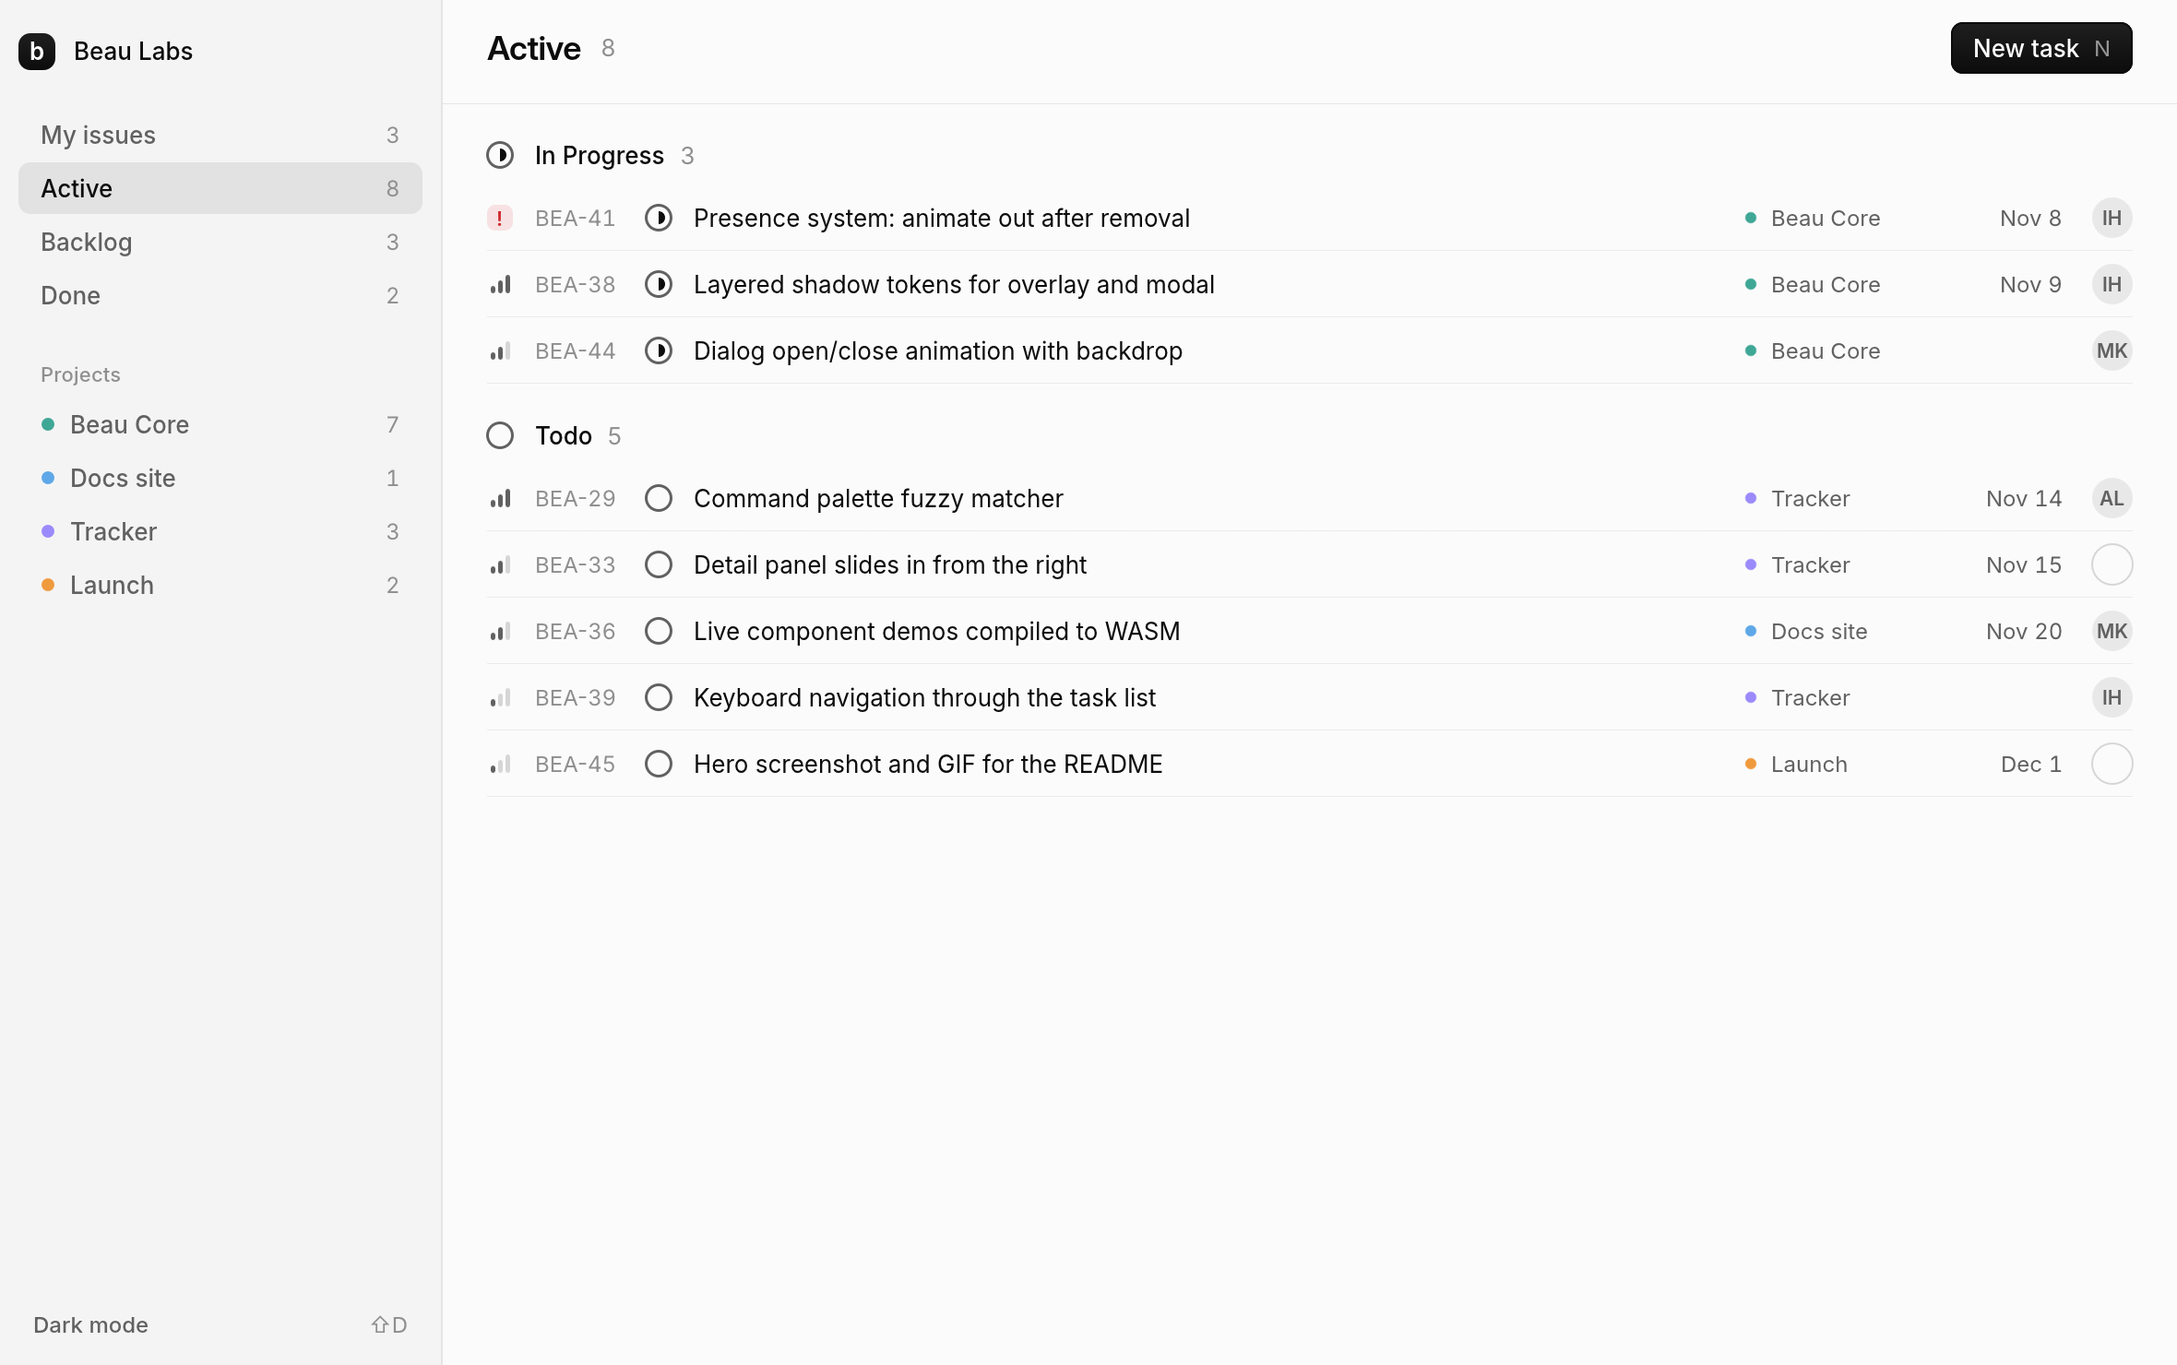
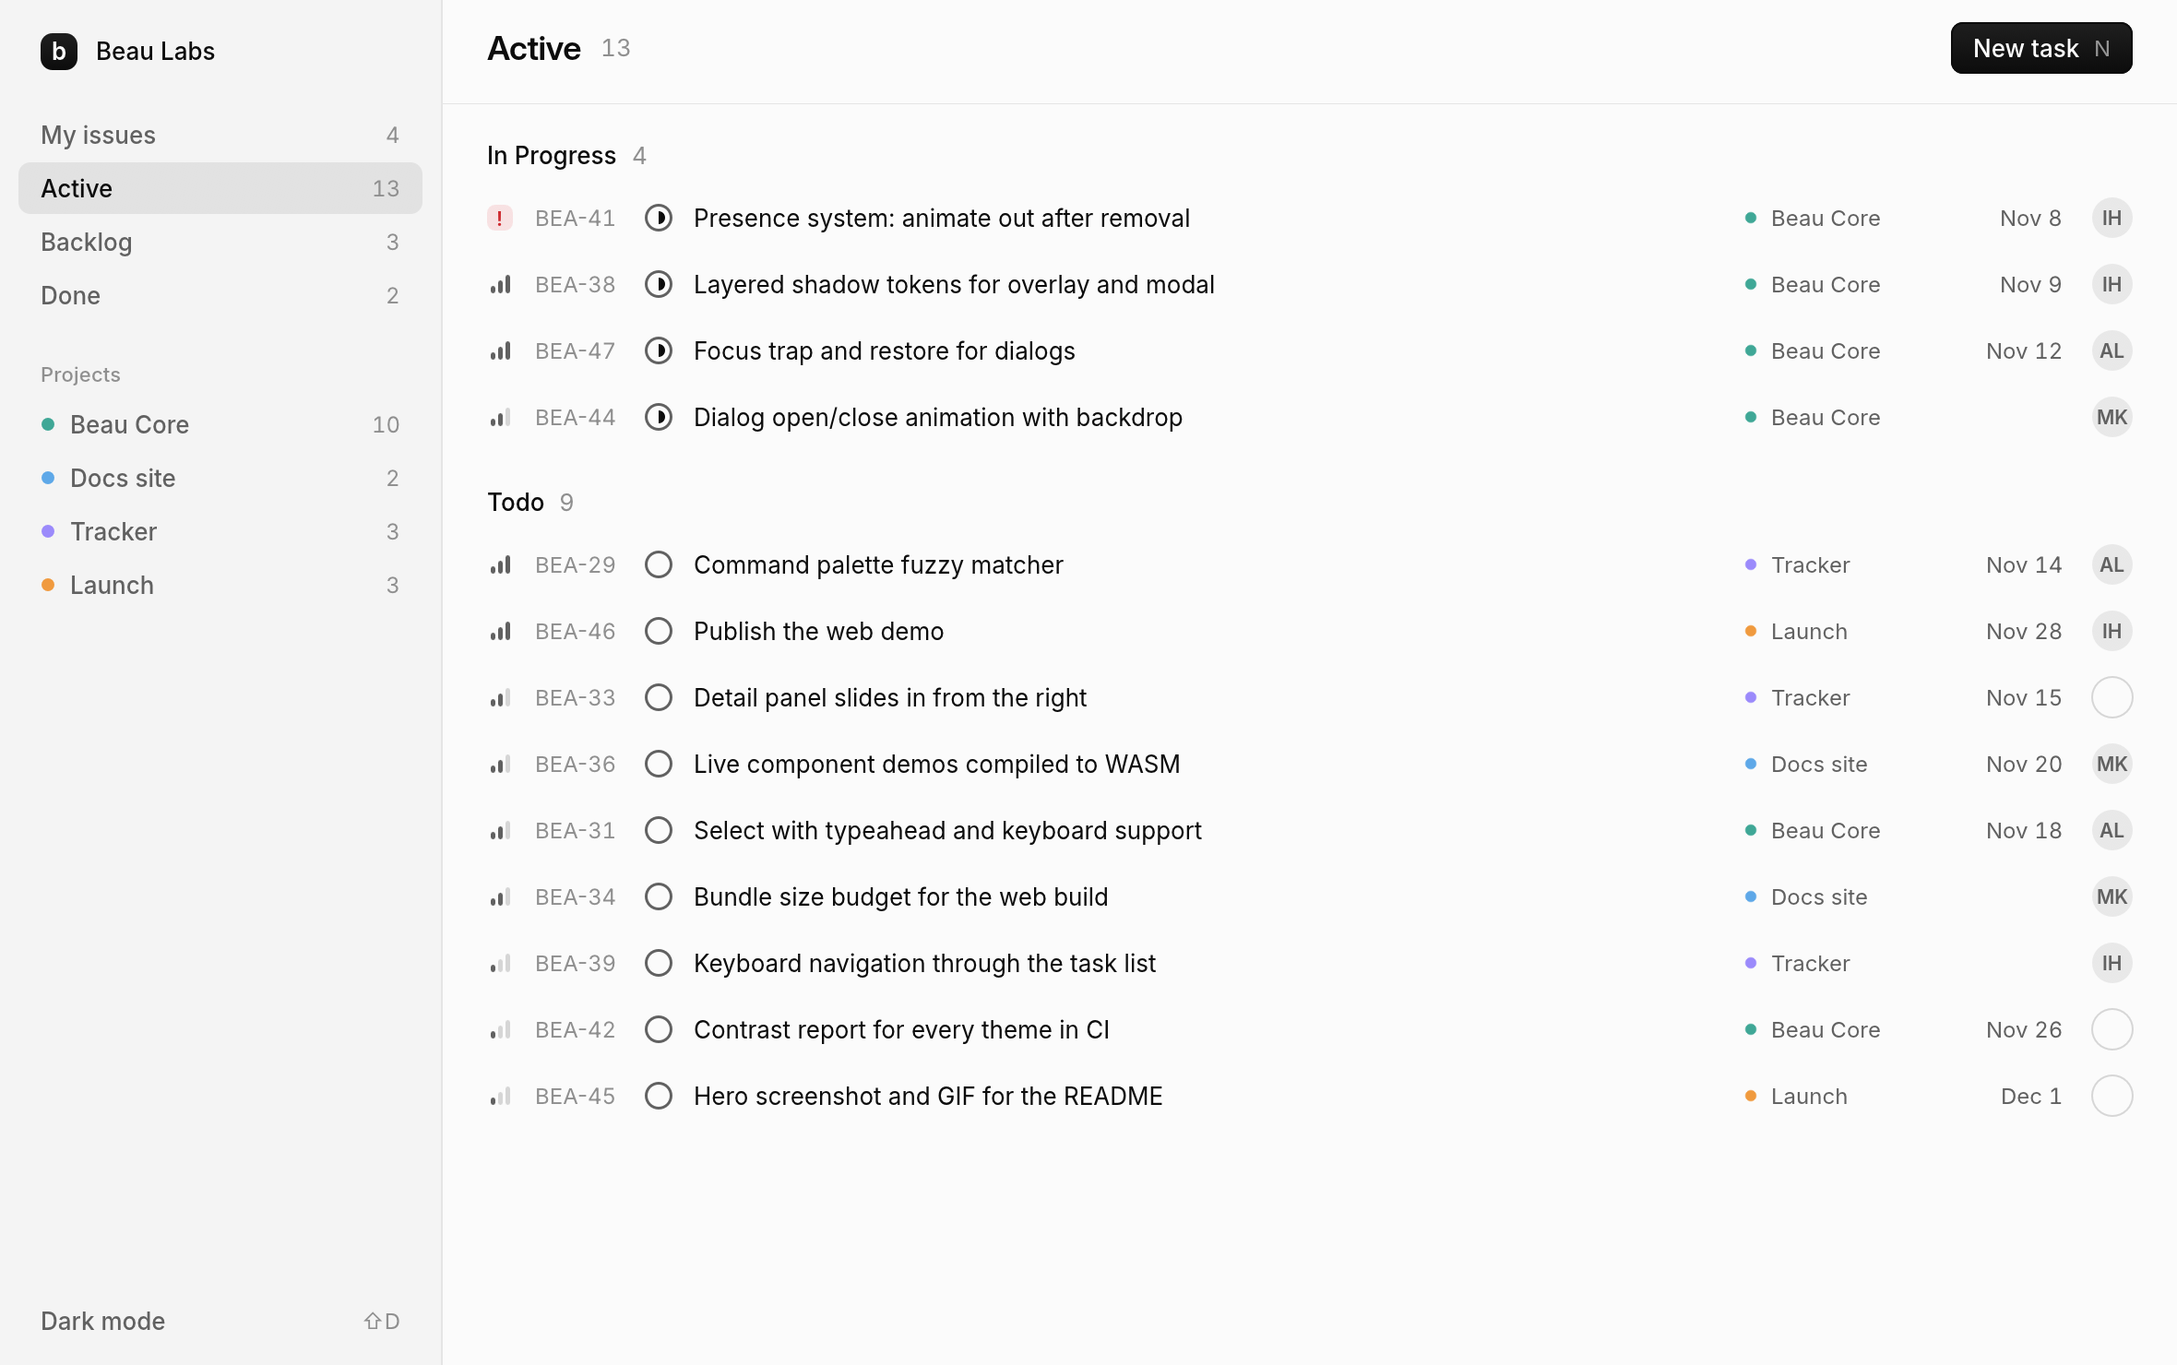
fix(design): screenshot polish pass
- Light backdrop 28% -> 14% ink, so dialogs lift off the page.
- Text inputs: a soft 3px 16% halo flush with the border (new
  paint::focus_halo) instead of a gapped 35% ring.
- Stock radios and rails rest on the faint hover wash, not the active one.
- Tracker: fuller seed data, no row dividers, plain group headers,
  one left edge down the sidebar, zero counts hidden.

Closes #58

diff --git a/examples/tracker/src/app.rs b/examples/tracker/src/app.rs
@@ -1,7 +1,7 @@
 use eframe::egui::{self, Align, Key, Layout, Margin, Modifiers, Sense, Ui, vec2};
 
 use beau::tokens::TextRole;
-use beau::{Button, Card, Dialog, Size, TextInput};
+use beau::{Button, Card, Dialog, TextInput};
 
 use crate::Options;
 use crate::data::{self, Filter, Project, Status, Task};
@@ -91,6 +91,9 @@ impl TrackerApp {
         ui.spacing_mut().item_spacing.y = 1.0;
 
         ui.horizontal(|ui| {
+            // Ghost rows pad their labels by `space.lg`; the logo shares that
+            // left edge, so the whole sidebar reads down one axis.
+            ui.add_space(t.space.lg);
             glyphs::logo(ui);
             ui.add_space(2.0);
             ui.label(t.text("Beau Labs", TextRole::BodyStrong));
@@ -99,11 +102,13 @@ impl TrackerApp {
 
         for f in Filter::ALL {
             let count = self.tasks.iter().filter(|task| f.matches(task)).count();
-            let b = Button::new(f.label())
+            let mut b = Button::new(f.label())
                 .ghost()
                 .full_width()
-                .selected(self.filter == f)
-                .trailing(count.to_string());
+                .selected(self.filter == f);
+            if count > 0 {
+                b = b.trailing(count.to_string());
+            }
             if ui.add(b).clicked() {
                 self.filter = f;
             }
@@ -113,26 +118,18 @@ impl TrackerApp {
         section_label(ui, "Projects");
         for (i, p) in self.projects.iter().enumerate() {
             let count = self.tasks.iter().filter(|task| task.project == i).count();
-            ui.add(
-                Button::new(p.name)
-                    .ghost()
-                    .full_width()
-                    .dot(p.color)
-                    .trailing(count.to_string()),
-            );
+            let mut b = Button::new(p.name).ghost().full_width().dot(p.color);
+            if count > 0 {
+                b = b.trailing(count.to_string());
+            }
+            ui.add(b);
         }
 
         ui.with_layout(Layout::bottom_up(Align::Min), |ui| {
             let dark = Self::is_dark(ui.ctx());
             let label = if dark { "Light mode" } else { "Dark mode" };
             if ui
-                .add(
-                    Button::new(label)
-                        .ghost()
-                        .size(Size::Sm)
-                        .full_width()
-                        .trailing("⇧D"),
-                )
+                .add(Button::new(label).ghost().full_width().trailing("⇧D"))
                 .clicked()
             {
                 self.set_dark(ui.ctx(), !dark);
@@ -314,9 +311,9 @@ fn group_header(ui: &mut Ui, status: Status, count: usize) {
     let (rect, _) = ui.allocate_exact_size(vec2(ui.available_width(), 44.0), Sense::hover());
     let p = ui.painter();
     let cy = rect.bottom() - 16.0;
-    let mut x = rect.left() + 24.0;
-    glyphs::status(p, egui::pos2(x + 7.0, cy), status, &t);
-    x += 26.0;
+    // No status glyph: each row already shows one, and a second copy in
+    // another column read as misaligned.
+    let x = rect.left() + 24.0;
     let label = p.layout_no_wrap(status.label().into(), t.font(TextRole::BodyStrong), c.text);
     let w = label.size().x;
     p.galley(egui::pos2(x, cy - label.size().y / 2.0), label, c.text);
@@ -345,13 +342,6 @@ fn task_row(ui: &mut Ui, task: &Task, project: &Project) {
     if hover > 0.0 {
         p.rect_filled(rect, 0.0, c.surface_hover.gamma_multiply(hover));
     }
-    let divider = t.divider(ui.ctx());
-    p.hline(
-        (rect.left() + 24.0)..=(rect.right() - 24.0),
-        rect.bottom() - divider.width / 2.0,
-        (divider.width, c.border.gamma_multiply(0.7)),
-    );
-
     let cy = rect.center().y;
     let small = t.font(TextRole::Small);
     let mut x = rect.left() + 24.0;

diff --git a/crates/beau/src/stock.rs b/crates/beau/src/stock.rs
@@ -10,7 +10,7 @@
 //!   contact shadow, hover and press washes, 500-weight labels, a soft focus
 //!   halo for keyboard focus, and ghost rows inside menus and popups.
 //! - **Text edits**: a raised field whose border darkens on hover and turns
-//!   `focus_ring` with a 35% halo when focused, like [`crate::TextInput`].
+//!   `focus_ring` with a soft halo when focused, like [`crate::TextInput`].
 //! - **Checkboxes**: a 14pt box at `radius.sm` with an ink check.
 //! - **Separators**: physical-pixel hairlines.
 //!
@@ -31,6 +31,7 @@ use egui::{
     },
 };
 
+use crate::paint;
 use crate::tokens::{Level, Mode, ShadowLayer, Theme};
 
 /// The [`StyleProvider`] that gives stock egui widgets beau's look.
@@ -90,13 +91,25 @@ fn shadow(layer: Option<&ShadowLayer>) -> Shadow {
     })
 }
 
-/// beau's focus treatment for frames: a solid 3pt halo at 35% of `focus_ring`.
+/// Keyboard focus on buttons and checkboxes: a solid 3pt halo at 35% of
+/// `focus_ring`. It is the only focus signal on those controls, so it stays
+/// stronger than the text-field halo.
 fn halo(t: &Theme) -> Shadow {
+    halo_at(t, 0.35)
+}
+
+/// A focused text edit: the same soft halo as [`paint::focus_halo`], drawn as
+/// a solid shadow. The border turning `focus_ring` is the main signal.
+fn field_halo(t: &Theme) -> Shadow {
+    halo_at(t, paint::FOCUS_HALO_ALPHA)
+}
+
+fn halo_at(t: &Theme, alpha: f32) -> Shadow {
     Shadow {
         offset: [0, 0],
         blur: 0,
-        spread: 3,
-        color: t.colors.focus_ring.gamma_multiply(0.35),
+        spread: paint::FOCUS_HALO_WIDTH as u8,
+        color: t.colors.focus_ring.gamma_multiply(alpha),
     }
 }
 
@@ -234,7 +247,11 @@ impl StyleProvider<TextEditStyle> for StockStyle {
             .stroke(Stroke::new(1.0, border))
             .corner_radius(CornerRadius::same(t.radius.md))
             .inner_margin(margin(t.space.lg - 2.0, t.space.xs))
-            .shadow(if focused { halo(&t) } else { Shadow::NONE });
+            .shadow(if focused {
+                field_halo(&t)
+            } else {
+                Shadow::NONE
+            });
         TextEditStyle {
             atom_layout: AtomLayoutStyle {
                 frame: frame.apply_stroke_and_expansion_without_layout_shift(frame.stroke, 0.0),

diff --git a/examples/tracker/src/data.rs b/examples/tracker/src/data.rs
@@ -156,6 +156,15 @@ pub fn seed_tasks() -> Vec<Task> {
             Some("IH"),
         ),
         t(
+            47,
+            "Focus trap and restore for dialogs",
+            S::InProgress,
+            P::High,
+            0,
+            Some("Nov 12"),
+            Some("AL"),
+        ),
+        t(
             44,
             "Dialog open/close animation with backdrop",
             S::InProgress,
@@ -172,6 +181,15 @@ pub fn seed_tasks() -> Vec<Task> {
             2,
             Some("Nov 14"),
             Some("AL"),
+        ),
+        t(
+            46,
+            "Publish the web demo",
+            S::Todo,
+            P::High,
+            3,
+            Some("Nov 28"),
+            Some("IH"),
         ),
         t(
             33,
@@ -192,6 +210,24 @@ pub fn seed_tasks() -> Vec<Task> {
             Some("MK"),
         ),
         t(
+            31,
+            "Select with typeahead and keyboard support",
+            S::Todo,
+            P::Medium,
+            0,
+            Some("Nov 18"),
+            Some("AL"),
+        ),
+        t(
+            34,
+            "Bundle size budget for the web build",
+            S::Todo,
+            P::Medium,
+            1,
+            None,
+            Some("MK"),
+        ),
+        t(
             39,
             "Keyboard navigation through the task list",
             S::Todo,
@@ -199,6 +235,15 @@ pub fn seed_tasks() -> Vec<Task> {
             2,
             None,
             Some("IH"),
+        ),
+        t(
+            42,
+            "Contrast report for every theme in CI",
+            S::Todo,
+            P::Low,
+            0,
+            Some("Nov 26"),
+            None,
         ),
         t(
             45,

diff --git a/crates/beau/src/paint/focus.rs b/crates/beau/src/paint/focus.rs
@@ -4,6 +4,10 @@ use egui::{Color32, CornerRadius, Rect, Shape, Stroke, StrokeKind, epaint::RectS
 pub const FOCUS_GAP: f32 = 1.0;
 /// Width of the focus ring, in points.
 pub const FOCUS_WIDTH: f32 = 2.0;
+/// Width of the soft halo around a focused text field, in points.
+pub const FOCUS_HALO_WIDTH: f32 = 3.0;
+/// Opacity of the halo, as a fraction of `focus_ring`.
+pub const FOCUS_HALO_ALPHA: f32 = 0.16;
 
 /// A focus ring around `rect`: a [`FOCUS_GAP`] gap, then a [`FOCUS_WIDTH`] ring.
 ///
@@ -24,4 +28,19 @@ pub fn focus_ring(rect: Rect, radius: CornerRadius, color: Color32, t: f32) -> S
     };
     let stroke = Stroke::new(FOCUS_WIDTH, color.gamma_multiply(t.clamp(0.0, 1.0)));
     Shape::Rect(RectShape::stroke(r, cr, stroke, StrokeKind::Outside))
+}
+
+/// The soft halo around a focused text field: a [`FOCUS_HALO_WIDTH`] band
+/// flush against `rect`, at [`FOCUS_HALO_ALPHA`] of `color`.
+///
+/// Unlike [`focus_ring`] there is no gap, so the field's own border and the
+/// halo read as one soft edge rather than a double outline. `t` in `0..=1`
+/// fades it in; returns [`Shape::Noop`] when `t` is zero.
+pub fn focus_halo(rect: Rect, radius: CornerRadius, color: Color32, t: f32) -> Shape {
+    if t <= 0.0 {
+        return Shape::Noop;
+    }
+    let alpha = FOCUS_HALO_ALPHA * t.clamp(0.0, 1.0);
+    let stroke = Stroke::new(FOCUS_HALO_WIDTH, color.gamma_multiply(alpha));
+    Shape::Rect(RectShape::stroke(rect, radius, stroke, StrokeKind::Outside))
 }

diff --git a/crates/beau/src/tokens/mod.rs b/crates/beau/src/tokens/mod.rs
@@ -168,12 +168,14 @@ impl Theme {
         let w = &mut v.widgets;
         // Most stock widgets are drawn by `crate::stock::StockStyle`; these
         // slots style the rest. `bg_fill` is the inside of radios and slider
-        // handles and, when inactive, the slider rail: a soft gray, so the
-        // rail shows on raised surfaces, turning white under the pointer.
+        // handles and, when inactive, the slider rail: the faint hover wash,
+        // so rails show on raised surfaces while resting radios read as
+        // outlined controls rather than disabled discs. White under the
+        // pointer.
         // `weak_bg_fill` frames buttons when no StockStyle is registered.
         // `fg_stroke` is radio labels and dots and slider handle outlines.
         for (wv, fill, weak, fg) in [
-            (&mut w.inactive, press, c.surface_raised, c.text),
+            (&mut w.inactive, hover, c.surface_raised, c.text),
             (&mut w.hovered, c.surface_raised, hover, c.text),
             (&mut w.active, c.surface_raised, press, c.text),
             (&mut w.open, c.surface_raised, press, c.text),

diff --git a/crates/beau/src/tokens/palette.rs b/crates/beau/src/tokens/palette.rs
@@ -81,7 +81,7 @@ impl Palette {
             danger_hover: Color32::from_rgb(0xD9, 0x3D, 0x42),
             danger_text: Color32::from_rgb(0xCE, 0x2C, 0x31),
             text_on_danger: Color32::WHITE,
-            backdrop: Color32::from_rgba_unmultiplied(0x0C, 0x0C, 0x0C, 72),
+            backdrop: Color32::from_rgba_unmultiplied(0x0C, 0x0C, 0x0C, 36),
             // Accent-derived; filled in by `set_accent`.
             text_on_accent: Color32::WHITE,
             accent: INK,

diff --git a/crates/beau/src/components/text_input.rs b/crates/beau/src/components/text_input.rs
@@ -155,7 +155,7 @@ impl Widget for TextInput<'_> {
             ui.painter().set(
                 where_bg,
                 Shape::Vec(vec![
-                    paint::focus_ring(rect, radius, c.focus_ring.gamma_multiply(0.35), focus),
+                    paint::focus_halo(rect, radius, c.focus_ring, focus),
                     paint::surface(rect, radius, c.surface_raised, Stroke::new(1.0, border)),
                 ]),
             );

diff --git a/crates/beau/src/paint/mod.rs b/crates/beau/src/paint/mod.rs
@@ -12,7 +12,9 @@ mod shadow;
 
 pub use border::{hairline_width, snap_rect, surface};
 pub use chevrons::select_chevrons;
-pub use focus::{FOCUS_GAP, FOCUS_WIDTH, focus_ring};
+pub use focus::{
+    FOCUS_GAP, FOCUS_HALO_ALPHA, FOCUS_HALO_WIDTH, FOCUS_WIDTH, focus_halo, focus_ring,
+};
 pub use gradient::{LinearGradient, gradient_rect};
 pub use shadow::{layered_shadow, shadow_margin};
 

diff --git a/DESIGN.md b/DESIGN.md
@@ -8,7 +8,7 @@ beau is dense, precise and calm. It aims to look and feel right in anyone's app:
 3. **Shadows only on things that float**: popovers, dialogs and menus. They are tight and layered (a contact shadow plus an ambient one), never a big fuzzy glow.
 4. **Consistent radii:** 4 / 6 / 10px. Crisp, but not severe.
 5. **Density.** 13px base type, 28px controls (24 / 28 / 32), 36px list rows. Digits are tabular everywhere, so numbers, IDs and dates align.
-6. **Keyboard is first-class and visible.** Shortcuts appear as muted trailing hints (`New task  N`, `esc`). The focus ring is 2px with a 1px gap, in `focus_ring` (ink by default). Text inputs are the exception: their border turns `focus_ring` and a soft 35% halo replaces the gap ring, which looks less heavy around large fields.
+6. **Keyboard is first-class and visible.** Shortcuts appear as muted trailing hints (`New task  N`, `esc`). The focus ring is 2px with a 1px gap, in `focus_ring` (ink by default). Text inputs are the exception: their border turns `focus_ring` and a soft 3px halo at 16%, flush against the border, replaces the gap ring, so a focused field reads as one soft edge rather than a double outline.
 7. **Motion is quick and critically damped**, about 120–200ms. Things fade and drift 4–6px; nothing bounces or flies.
 8. **Light and dark follow the OS** by default (`beau::install`). Apps can force a mode with `beau::set_preference`.
 
@@ -38,7 +38,7 @@ beau is dense, precise and calm. It aims to look and feel right in anyone's app:
 | `danger_text` | `#CE2C31` | `#FF6369` | destructive text |
 | `focus_ring` | derived | derived | accent pushed towards `text` until ≥3:1 on `surface` |
 | `selection` | derived | derived | accent wash (18% light, 32% dark) |
-| `backdrop` | ink 28% | black 55% | dialog scrim |
+| `backdrop` | ink 14% | black 55% | dialog scrim |
 
 Neutrals are untinted grays, so they don't fight warm or cool accents.
 
@@ -87,6 +87,8 @@ Large sizes use Inter's *display* optical size, which gives tighter, sharper hea
 - **Do** make disabled controls neutral (surface fill, subtle text, full opacity), not faded.
 - **Do** keep signals quiet: urgency is a tinted mark, not a solid red block.
 - **Do** separate groups with rhythm (space above a plain label), not bands or lines.
+- **Don't** rule every list row. Rows are separated by rhythm and the hover wash; a hairline belongs between regions, not items.
+- **Do** hide a zero count rather than print `0`.
 - **Do** align metadata in fixed-width columns so it reads down the list.
 - **Do** use tonal steps and hairlines for structure. **Don't** box everything.
 - **Do** keep the accent fill for the single most important action on screen. **Don't** use it as decoration.
@@ -109,11 +111,12 @@ lets a theme fully style. Everything comes from the theme's tokens.
 - **Menu and list rows** inside popups are ghost rows, 24pt tall, with a
   `surface_hover` wash at `radius.sm`, inset from the popup edge.
 - **Text edits** match `TextInput`: the border darkens on hover, then turns
-  `focus_ring` with a 35% halo when focused. Keyboard-focused buttons and
-  checkboxes use the same halo.
+  `focus_ring` with the soft 16% halo when focused. Keyboard-focused buttons
+  and checkboxes, whose only focus signal is the halo, use a stronger 35%.
 - **Checkboxes** are 14pt at `radius.sm` with an ink check. **Radios and
-  slider rails** are a soft gray (`surface_raised` plus the active wash) that
-  turns white under the pointer, so rails show on raised surfaces.
+  slider rails** are `surface_raised` plus the faint hover wash, outlined in
+  `border_strong`, turning white under the pointer: rails still show on
+  raised surfaces, and resting radios read as controls, not disabled discs.
 - **Separators** are physical-pixel hairlines. **Scroll bars** float: 2pt,
   growing to 6pt under the pointer, ink at low alpha, no track, hidden at
   rest.
